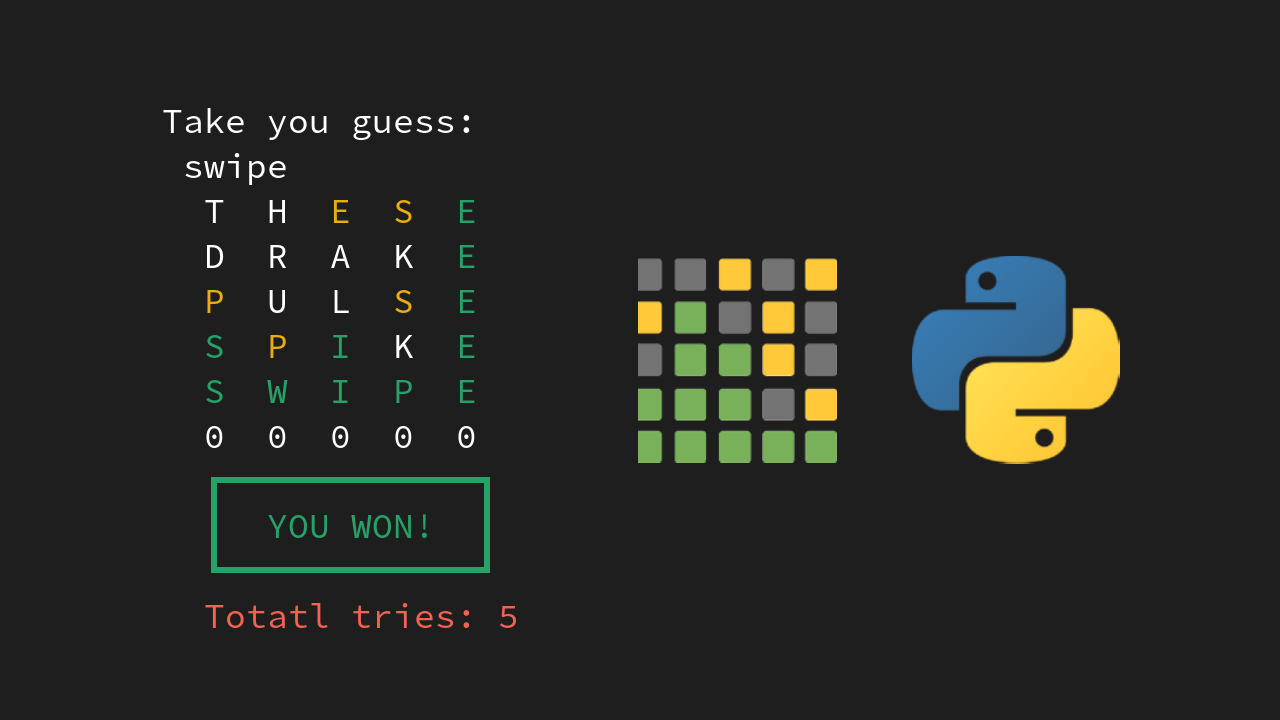
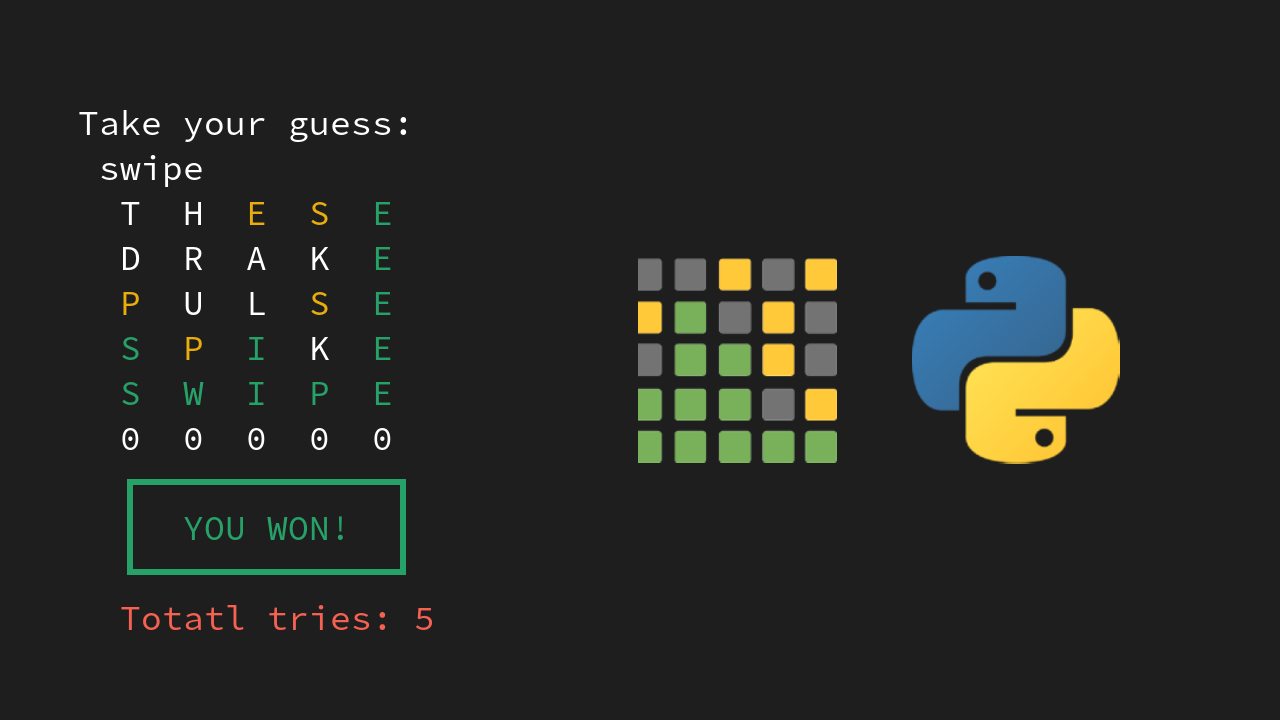
typos!

diff --git a/app.py b/app.py
@@ -8,7 +8,7 @@ wordle = config.get('secret', 'word').upper()
 word = list(wordle)
 count = 0
 
-guess = input("Take you guess: \n ").upper()
+guess = input("Take your guess: \n ").upper()
 
 grids = [["0", "0", "0", "0", "0"],
          ["0", "0", "0", "0", "0"],
@@ -23,7 +23,7 @@ while count != 5:
         break
     if len(guess) != 5:
         print("Word length should exactly be 5 characters, plese try again")
-        guess = input("Take you guess: \n ").upper()
+        guess = input("Take your guess: \n ").upper()
     for i in range(len(guess)):
         if guess[i] in word:
             if guess[i] == word[i]:
@@ -46,4 +46,4 @@ while count != 5:
     if count == 5:
         print(boxit("Sorry, you didn't make it! Better luck next time:)", 'red'))
     print()
-    guess = input("Take you guess: \n ").upper()
+    guess = input("Take your guess: \n ").upper()
